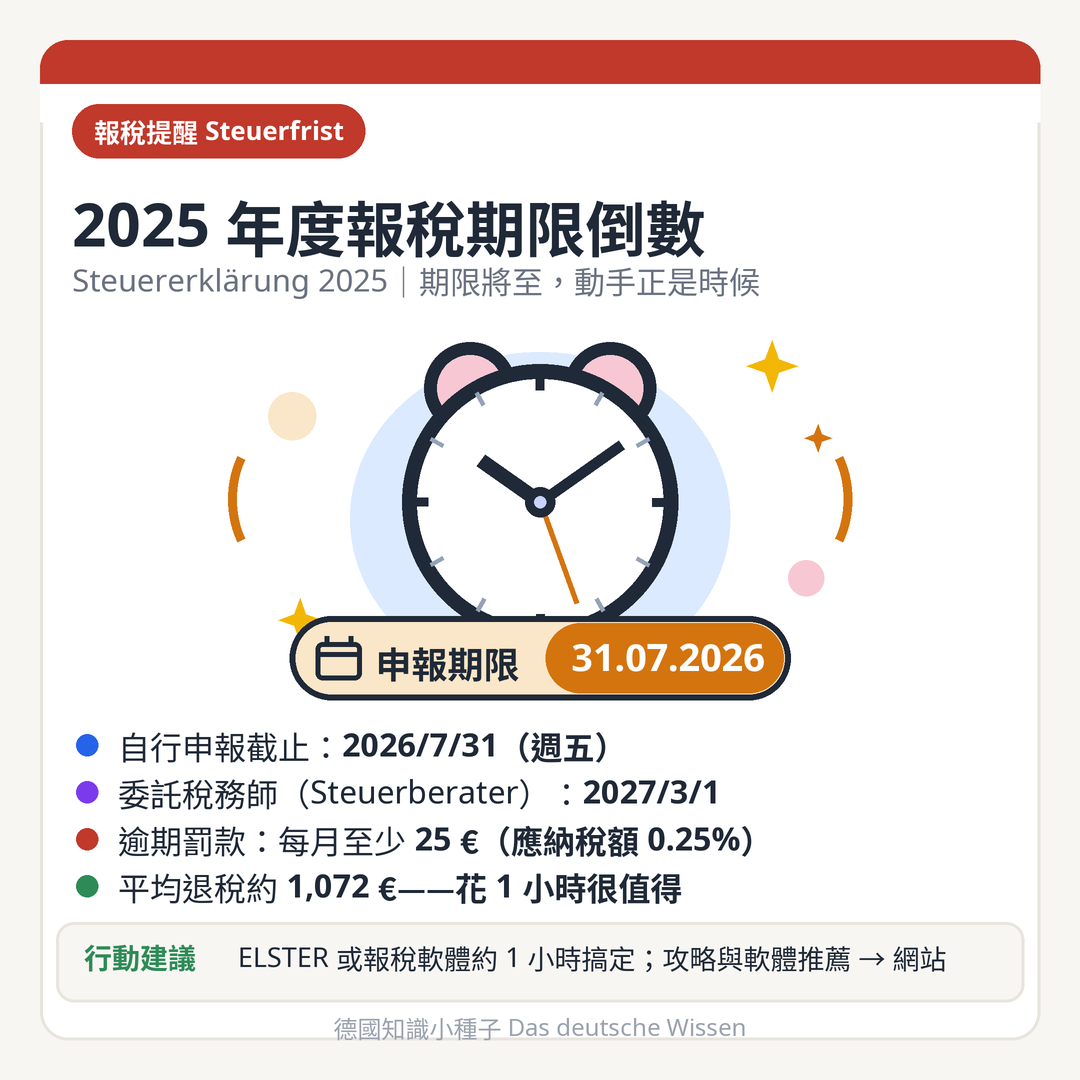
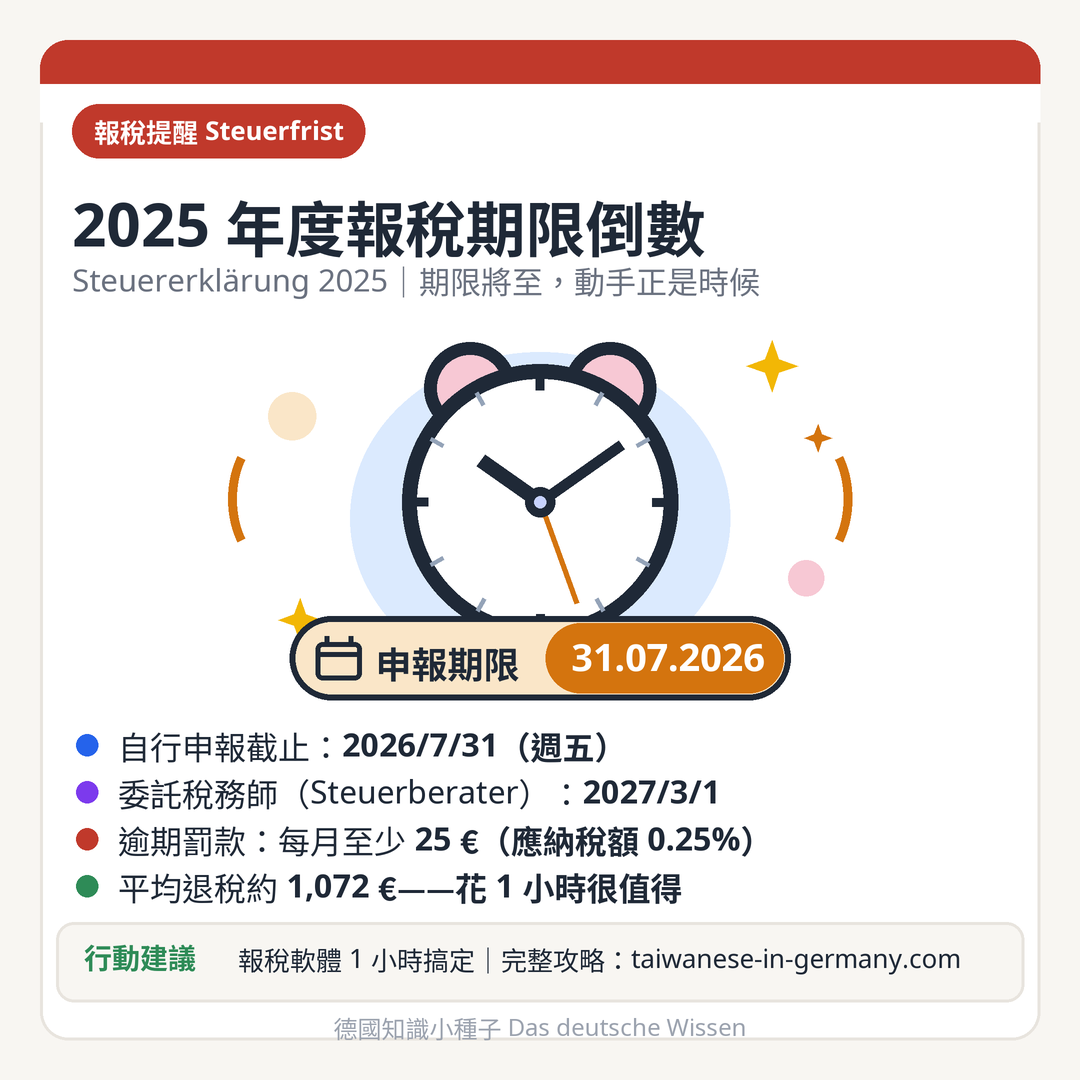
新增報稅新規對照圖卡（2025 vs 2024）並嵌入攻略文章；期限卡底部改標完整網址

Changed region(s): [[0.2139, 0.8556, 0.8861, 0.9167]]

diff --git a/js/data.js b/js/data.js
@@ -1009,6 +1009,8 @@ const POSTS = [
 <p class="">（2026/07 查核更新）今年填的是 <strong>2025 課稅年度</strong>的申報，以下是與去年（2024 年度）申報相比、經查證的主要變化：</p>
 <!-- /wp:paragraph -->
 
+<img src="assets/images/2026/tax/Steuerfrist2026_圖卡2_新規對照.png" alt="2025 vs 2024 報稅新規對照 托育費抵扣 80% 上限 4800 歐元 基本免稅額 12096 歐元 扶養費只認銀行轉帳">
+
 <!-- wp:list {"ordered":true} -->
 <ol class="wp-block-list"><!-- wp:list-item -->
 <li class="">個人基本免稅額（Grundfreibetrag）：調升 312 € 至<strong>12,096 €（單身）／24,192 €（已婚合併申報）</strong>（2024 年度為 11,784 € ／ 23,568 €）</li>

diff --git a/posts/german-tax-guide-2026.html b/posts/german-tax-guide-2026.html
@@ -268,6 +268,8 @@
 <p class="">（2026/07 查核更新）今年填的是 <strong>2025 課稅年度</strong>的申報，以下是與去年（2024 年度）申報相比、經查證的主要變化：</p>
 
 
+<img src="/assets/images/2026/tax/Steuerfrist2026_圖卡2_新規對照.png" alt="2025 vs 2024 報稅新規對照 托育費抵扣 80% 上限 4800 歐元 基本免稅額 12096 歐元 扶養費只認銀行轉帳">
+
 
 <ol class="wp-block-list">
 <li class="">個人基本免稅額（Grundfreibetrag）：調升 312 € 至<strong>12,096 €（單身）／24,192 €（已婚合併申報）</strong>（2024 年度為 11,784 € ／ 23,568 €）</li>